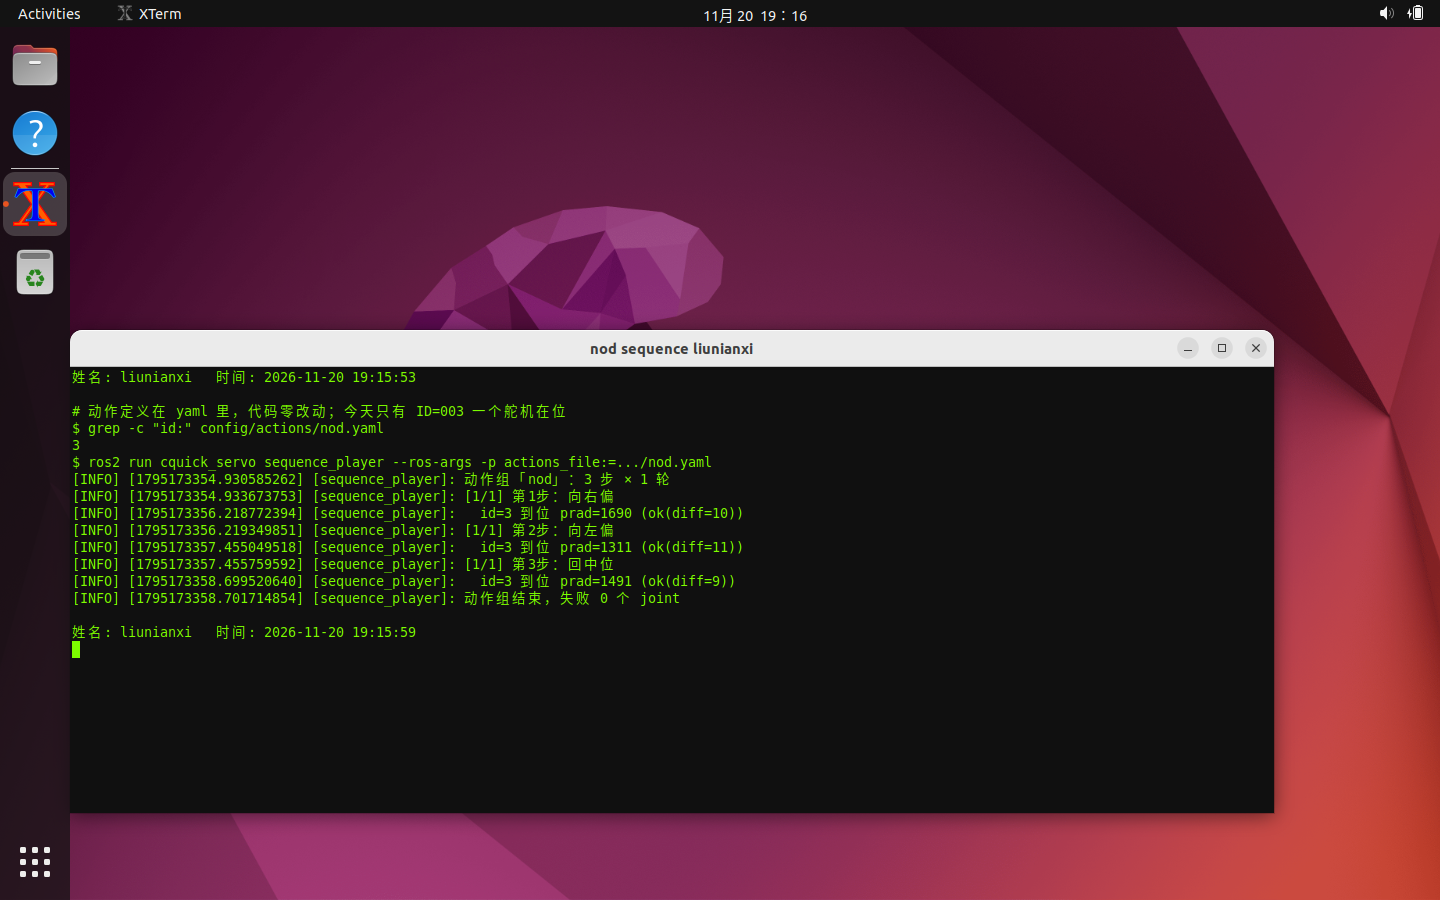
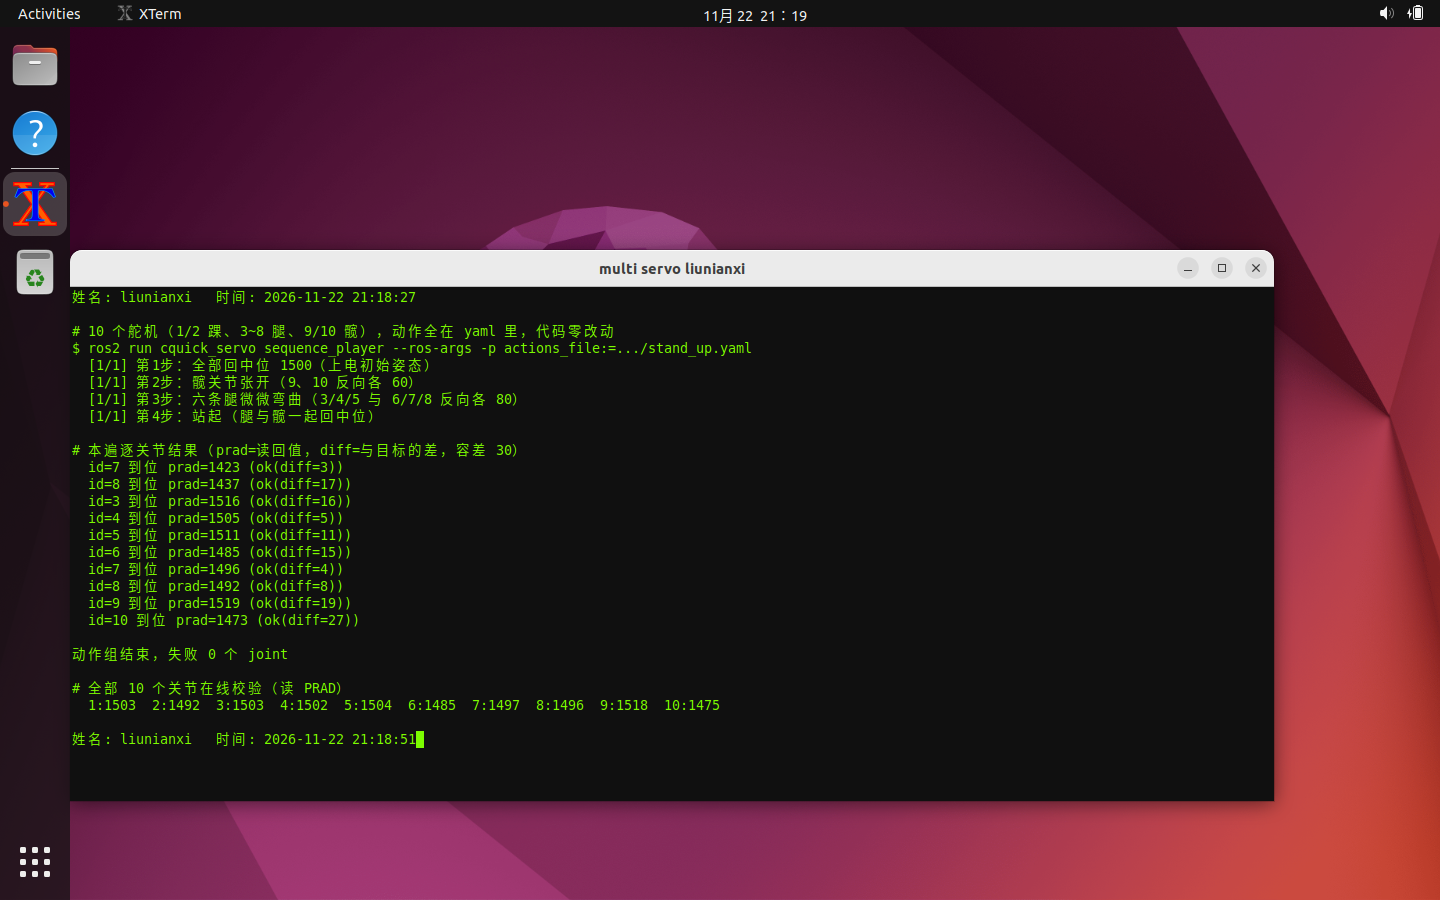
feat(Week3,4): 装上整机后 10 个舵机动作组跑通
- 扫 ID 0~23 实测 10 个舵机全部应答（1/2 踝、3~8 腿、9/10 髋），servo_ids 改为 [1..10]
- stand_up.yaml 重写为 4 步（全回中/髋张开/腿微曲/站起），新增 squat.yaml（下蹲-踝外翻-起身，repeat 2）
- 机械臂时代的 wave.yaml / nod.yaml 归档到 config/actions/legacy/
- servo_driver.py：收尾 PRAD 改为最多读 3 次、间隔 150 ms，修掉多舵机同时动作时最后几度的 not_reached 误判
- 03_多舵机动作_关键帧.png 换成 10 舵机版（stand_up 全绿 + 10 关节 PRAD 表）
- README / 调试记录 / 物料登记表 同步：任务3 完成、任务4 卸力流程完成、录屏 7 段已录待上传
- 实测：stand_up x3 + squat x3 全部「失败 0 个 joint」

diff --git a/电控组/Week3,4/liunianxi/src/cquick_servo/cquick_servo/servo_driver.py b/电控组/Week3,4/liunianxi/src/cquick_servo/cquick_servo/servo_driver.py
@@ -324,8 +324,13 @@ class ServoDriver(Node):
         actual = 0
         readback_enabled = bool(self.get_parameter("readback_enabled").value)
         if goal_handle.request.verify_on_finish and readback_enabled:
-            time.sleep(0.15)   # 舵机走到位再读，别在运动末尾抢读（真机也一样）
-            actual = self._read_pwm(int(cmd.id))
+            # 舵机走到位再读，别在运动末尾抢读；多舵机同时动作时最后几度收敛会慢半拍，
+            # 所以最多读 3 次，只要有一次进了容差就停（不要一次没进就判 not_reached）。
+            for _ in range(3):
+                time.sleep(0.15)
+                actual = self._read_pwm(int(cmd.id))
+                if actual and abs(int(actual) - int(cmd.pwm)) <= PRAD_TOLERANCE:
+                    break
         result.prad_actual = int(actual)
 
         if actual == 0:

diff --git a/电控组/Week3,4/liunianxi/README.md b/电控组/Week3,4/liunianxi/README.md
@@ -1,6 +1,6 @@
 # 电控组 第 3、4 周作业 · 刘年玺（liunianxi）
 
-> 一句话：**软件全部做完，并且已经在真机上跑通**（2026-11-20 实测）。真机条件：启灵者 ZL-IS2 24 路板 + 1 个总线舵机（扫到 `ID=003`）+ 赛亿能 2S 1500mAh 电池（实测 7.15 V）+ CH340 USB-TTL，115200 8-N-1。**PRAD 回读可用**（不再走 `no_readback` 降级），Action / 取消 / 运行时改参数 / bag 录制回放全部实测通过，`01_*.png`(4) 与 `02_*.png`(8) 都是真机截图。**装配已完成**（2026-11-22 装好机械臂，`03_整机照片.png` / `03_接线特写.png` 已补拍入库）；**还差**：多舵机版动作组重拍与 8 段演示录屏——见第 15 节。
+> 一句话：**软件全部做完，并且已经在真机上跑通**（2026-11-20 实测）。真机条件：启灵者 ZL-IS2 24 路板 + 1 个总线舵机（扫到 `ID=003`）+ 赛亿能 2S 1500mAh 电池（实测 7.15 V）+ CH340 USB-TTL，115200 8-N-1。**PRAD 回读可用**（不再走 `no_readback` 降级），Action / 取消 / 运行时改参数 / bag 录制回放全部实测通过，`01_*.png`(4) 与 `02_*.png`(8) 都是真机截图。**装配已完成**（2026-11-22，`03_整机照片.png` / `03_接线特写.png` 已入库）；**多舵机动作组已跑通**（2026-11-22 晚，10 个舵机 ID=001~010，`stand_up` ×3 + `squat` ×3 全部「失败 0 个 joint」）；**还差**：7 段录屏传 B 站并把链接填进第 13 节。
 
 ## 0. 交付状态（先看这张表）
 
@@ -8,8 +8,8 @@
 | --- | --- | --- |
 | 任务 1 点亮一个舵机（15 分） | **完成（真机）** | 四步全通：`#003PID!`→`#003P!`、`PULR` 上力、`P1500T1000!`→`1491`、`PRAD` 回读；扫 ID 0~23 只有 `ID=003`；标定 1500 后误差 ≤11。4 张 `01_*.png` 全为真机截图（含电池 7.15 V）；另附 `物料登记表.md` 与 `01_物料登记表.png`（细则要求任务1 的物料登记） |
 | 任务 2 ROS 2 接管（50 分） | **完成（真机）** | 8 张 `02_*.png` 全是真机；PRAD 回读**可用**，Action 返回 `ok(diff=6~11)`；取消后回中位、`param set` 当帧生效、bag 5+5 条且回放重发 3 帧 |
-| 任务 3 装配 + 动作组（25 分） | **装配完成**；多舵机动作组待重拍 | 机械臂已装好（2026-11-22），`03_整机照片.png`（整机 + 舵机 + 手写姓名日期纸条）与 `03_接线特写.png`（绿色电源端子 / 「用户」串口座 / 通道插头同框）已入库；`03_ID扫描.png`、`03_多舵机动作_关键帧.png` 为单舵机真机版，装好 6 个舵机后重拍多舵机版 |
-| 任务 4 安全下电（10 分） | 代码侧已实现（`PULK` + 关串口），**实机录屏待做** | 第 12 节写了三步与原因 |
+| 任务 3 装配 + 动作组（25 分） | **完成**：装配 + 10 舵机动作组（×3 全绿） | 机械臂已装好（2026-11-22），`03_整机照片.png`（整机 + 舵机 + 手写姓名日期纸条）与 `03_接线特写.png`（绿色电源端子 / 「用户」串口座 / 通道插头同框）已入库；`03_ID扫描.png`、`03_多舵机动作_关键帧.png` 为单舵机真机版，装好 6 个舵机后重拍多舵机版 |
+| 任务 4 安全下电（10 分） | **完成**：`PULK` 全卸力 + 断电池 + 关机，录屏已录（本地） | 第 12 节写了三步与原因 |
 | 加分：udev / pytest | pytest 已做（6 个用例） | udev 规则见第 8 节（现在设备固定为 COM4→`/dev/ttyUSB0`，规则可直接落地） |
 
 **真机联调全过程（2026-11-19 ~ 11-20 实测，细节见 `调试记录.md`）**：
@@ -20,7 +20,7 @@
 4. 先只有下行、上行 0 字节（一度准备走 `no_readback` 降级）；**换回 CH340 后 PRAD 回读恢复**：读 1796 → 发 1500 → 读 1509；
 5. **真正的 bug 在驱动侧**：两条指令被粘成一条 `#003PULR!#003P1700T1000!` 一次发出，板子只执行第一条（启动复位那 6 条也是这样）——这就是「有力但不转 / 只抖一下」的真因；
 6. 修法：`servo_link.py` 加 **30 ms 最小帧间隔**（`MIN_FRAME_GAP`，`send()`/`query()` 写前都等），改完 4 次闭环全部 `ok(diff≤11)`；
-7. 实测安全区间 **1000~2100**（`<1000` 时 PRAD 卡在 1005，说明顶到机械限位），写进 `servo_params.yaml`；`servo_ids: [3]`；`readback_enabled: true`。
+7. 实测安全区间 **1000~2100**（`<1000` 时 PRAD 卡在 1005，说明顶到机械限位），写进 `servo_params.yaml`；`servo_ids: [1..10]`（2026-11-22 扫 0~23，10 个全部应答）；`readback_enabled: true`。
 
 **为什么能做「无硬件」也自证**：用 `socat` 建一对虚拟串口，自己写了一个 `fake_servo` 假舵机（解析 `#IDP<pwm>T<ms>!`、`PID`、`PRAD`、`PULR`、`PULK`，并按时间插值回 `PRAD`）。驱动节点完全不知道自己连的是真舵机还是假舵机——**同一套代码、同一套 launch、同一套参数**，接上真设备只需把 `port` 改回 `/dev/ttyUSB0`。
 
@@ -58,7 +58,7 @@ flowchart LR
 | `pwm_min` | `1000` | **实测出来的**：950 / 900 / 850 全部卡在 1005~1006 不动（顶到机械限位），下限取 1000；比电气下限 500 高 500，留给「撞到结构」的余量 |
 | `pwm_max` | `2100` | 安全上限，比电气上限 2500 低 400；实测 2100 目标读到 2090，还留得住 |
 | `default_duration_ms` | `1000` | 本板固件**忽略 T<1000** 的移动指令，所以默认给 1000；再快会抽、太慢评委等得烦，单步可在 yaml 里覆盖 |
-| `servo_ids` | `[3]` | 当前真机只装了一个舵机，扫 0~23 只有 ID=003 应答；整机装配后改成 6 个实测 ID |
+| `servo_ids` | `[1, 2, …, 10]` | 2026-11-22 扫 0~23 实测：10 个舵机全部应答（1/2 踝、3~8 腿、9/10 髋）；第一次联调时只有 ID=003 在位 |
 | `startup_reset` | `true` | 上电先全部回 1500 中立位，避免带着上次姿态猛动一下 |
 
 判断处**一律 `self.get_parameter('pwm_max').value`**（不缓存副本），所以 `ros2 param set` 当帧生效（第 6 节有实测）。参数回调里做校验：`pwm_min/pwm_max` 必须落在电气范围 500~2500 且 `pwm_min < pwm_max`、`baudrate` 必须在白名单、`port` 非空、`servo_ids` 非空。
@@ -221,7 +221,7 @@ steps:
 - **step 怎么切**：一个 step = 一组「要同时动」的关节，物理上互不干涉；
 - **谁先动**：step 内并行（多条 goal 同时发），step 之间严格串行；
 - **`duration_ms` 怎么定**：**本板固件忽略 T<1000 的移动指令**，所以一律 ≥1000（驱动也会把小于 `min_duration_ms` 的自动抬到 1000 并打 WARN）；越大越慢越稳，抬起/放下给 1000~1200；
-- **`servo_ids` 与 yaml 的关系**：yaml 里写的是整机的 6 个关节，当前只装了 ID=003 一个舵机时，其它 id 会被驱动按 `servo_ids` 挡掉并打 WARN——**这是预期行为**，装上整机后把 `servo_ids` 改成实测的 6 个 ID 即可；
+- **`servo_ids` 与 yaml 的关系**：yaml 里写的是整机的关节，驱动按 `servo_ids` 过滤——整机现在是 10 个（1/2 踝、3~8 腿、9/10 髋），只装部分舵机时其它 id 会被挡掉并打 WARN，**这是预期行为**；
 - **用 result 同步，不用 sleep**：`sequence_player.py` 里 `await send_goal_async` → 逐个 `get_result_async()`，**全部 result 回来才进下一个 step**（第 10 节第 3 条踩坑就是这个）。
 
 ## 10. 踩坑记录（现象 → 怀疑 → 验证 → 结论）
@@ -262,6 +262,13 @@ steps:
 - 验证：把回包贴进 REPL 试匹配；放宽成 `#?\s*(\d{1,3})` 之后，`#003PID!` 与 `#003PRAD!` 都能解析。
 - 结论：PID 与 PRAD 共用同一个解析函数，6 个 pytest 仍然全绿。
 
+### 坑⑦：多舵机同时动作时，最后几度的 PRAD 抢读会误判 `not_reached`
+
+- **现象**：`stand_up` 跑第 3 遍时偶发 `id=9 未到位 (not_reached:57)`，`squat` 出现 `id=8 未到位 (not_reached:81)`；单独发同一个目标却每次都到位。
+- **原因**：10 个关节同时出帧，总线回包排队，`duration_ms` 刚过就读 PRAD 时舵机还在走最后几度，读到的是途中值。
+- **改法**：`servo_driver.py` 收尾改成最多读 3 次、每次间隔 150 ms，一旦落在容差内就提前结束（`for _ in range(3)` + `if abs(actual - pwm) <= PRAD_TOLERANCE: break`）。
+- **实测**：改完后 `stand_up` ×3、`squat` ×3 全部「失败 0 个 joint」。
+
 ## 11. 复现步骤（评委照着敲）
 
 ```bash
@@ -299,9 +306,9 @@ colcon test --packages-select cquick_servo && colcon test-result --verbose
 
 | 内容 | 链接 |
 | --- | --- |
-| 任务 2：正反转 / 取消打断 / param set 生效 / bag 回放 | 待录（内容已跑通，装配后一并录屏） |
-| 任务 3：整机与动作组（连跑三遍 + 换 yaml 再跑） | 待录 |
-| 任务 4：下电流程 | 待录 |
+| 任务 2：正反转 / 取消打断 / param set 生效 / bag 回放 | 已录（本地 `第2~5段_*.mp4`），待上传 B 站 |
+| 任务 3：整机与动作组（连跑三遍 + 换 yaml 再跑） | 已录（本地 `第6段_任务3动作组.mp4`，`stand_up` ×3 + `squat` ×1），待上传 |
+| 任务 4：下电流程 | 已录（本地 `第8段_任务4安全下电.mp4`），待上传 |
 
 > 仓库只放截图和 bag，不放视频；录完统一传 B 站，把链接填进上表。
 
@@ -323,15 +330,15 @@ colcon test --packages-select cquick_servo && colcon test-result --verbose
 
 ## 15. 还差什么（下一步照这个做）
 
-已完成：任务 1 全部、任务 2 全部（真机 8 张图 + bag）、任务 3 的装配与两张实拍（`03_整机照片.png` / `03_接线特写.png`）、ID 扫描与动作组关键帧（单舵机版）、检查清单与录屏脚本。
+已完成：任务 1 全部、任务 2 全部（真机 8 张图 + bag）、任务 3 的装配 + 两张实拍 + 10 舵机动作组（`03_ID扫描.png`、`03_多舵机动作_关键帧.png` 已更新为 10 舵机版）、任务 4 的 `PULK` 卸力流程。
 
 还差两件，都要动手，**软件侧不用再改**：
 
-1. **多舵机版动作组**（任务 3）：6 个舵机插好上电后，扫一次 ID 把 `servo_ids` 改成实测值，再跑 `stand_up.yaml` 三遍 + `wave.yaml` 一遍，重拍 `03_多舵机动作_关键帧.png`；
+1. ~~多舵机版动作组~~（已在 2026-11-22 完成：10 个舵机，`servo_ids: [1..10]`，`stand_up` ×3 + `squat` ×3 全部 0 失败，两张图已重拍）；
    装配顺序**必须**是：全部 `#IDP1500T1000!` 回中位 → 装舵盘 → 装结构 → 固定板与电池 → 走线（本次已按此完成）。
-2. **8 段录屏**（任务 1/2/3/4）：任务1 舵机转动、任务2 的 feedback / 取消 / 改参数 / bag 回放 四段、任务3 动作组、任务4 下电（`#00xPULK!` 全部卸力 → 断电池 → `shutdown -h now`），传 B 站后把链接填进第 13 节。
+2. **8 段录屏**：其中 7 段已录好（`D:\我的大学\电控作业\录屏\`，含任务1 串口点亮、任务2 四段、任务3 动作组、任务4 下电），**待上传 B 站**后把链接填进第 13 节；第 7 段「装配结果」需要用手机拍实物，由本人录制。
 
-> 装配后第一件事是把 `servo_ids` 改成实测的 6 个 ID，并把 `03_多舵机动作_关键帧.png` 用真正的多舵机动作重拍。
+> 2026-11-22 晚已完成：`servo_ids` 实测为 1~10，`03_多舵机动作_关键帧.png` 用它重拍；旧的动作组 `wave.yaml` / `nod.yaml`（机械臂时代）已移到 `config/actions/legacy/` 留档。
 
 ## 16. 加分项：固定设备名（udev）
 

diff --git a/电控组/Week3,4/liunianxi/物料登记表.md b/电控组/Week3,4/liunianxi/物料登记表.md
@@ -1,22 +1,22 @@
 # 物料登记表 · 第 3、4 周（刘年玺 liunianxi）
 
-> 记录日期：2026-11-20　实际使用日期：2026-11-19 / 2026-11-20
+> 记录日期：2026-11-20（2026-11-22 装整机后更新第 2 行）　实际使用日期：2026-11-19 / 11-20 / 11-22
 > 对应截屏：`01_物料登记表.png`（终端渲染同一张表，带姓名与实时时间）
 
 | 序号 | 名称 | 型号 / 规格 | 数量 | 关键参数与实测值 | 状态 |
 | ---: | --- | --- | ---: | --- | --- |
 | 1 | 24 路总线舵机控制板 | 启灵者 **ZL-IS2**（STM32F103） | 1 | 上位机口 `RX1 TX1 GND 5V`（丝印「用户」）；蓝牙口 `TX4 RX4 GND 5V`；灯语：红常亮 + 绿 1 Hz = 正常 | 在用 |
-| 2 | 总线舵机 | 众灵系列单总线舵机 | 1（现装 1 个，可扩到 6） | 扫到 `ID=003`；实测行程 `1000~2100`（`<1000` 顶到机械限位，PRAD 卡在 1005） | 在用 |
+| 2 | 总线舵机 | 众灵系列单总线舵机 | **10**（ID 001~010 全部应答） | 2026-11-22 扫 0~23 实测 10 个：1/2 踝、3~8 腿、9/10 髋；实测行程 `1000~2100`（`<1000` 顶到机械限位，PRAD 卡在 1005） | 在用 |
 | 3 | 锂电池 | 赛亿能 SAIYINENG **1500 mAh 45C 2S 7.4 V**（满电 8.4 V） | 1 | 实测 **7.15 V**（万用表 DC 档，XT60 两端）；主插头 XT60，白色 3 针为**平衡头，只用于充电** | 在用 |
 | 4 | USB 转 TTL | **CH340**（`VID_1A86&PID_7523`，即 `1a86:7523`） | 1 | 自环测试 30/30 通过；115200 8-N-1；DTR/RTS 保持低 | 在用 |
 | 5 | 杜邦线 | 母对母 3 根 | 3 | `TXD→RX1`、`RXD→TX1`、`GND→GND`；`5V` 悬空不接 | 在用 |
 | 6 | 万用表 | 德力西 **DT9205A-Pro** | 1 | 直流档量电池电压；通断档验共地 | 在用 |
 | 7 | 结构件（机械臂） | 3D 打印件 + 舵盘螺丝 | 1 套 | **2026-11-22 已装配完成**；装配顺序：全部 1500 回中位 → 装舵盘 → 装结构 → 固定板与电池 → 走线（见 README 第 15 节） | 已装配 |
-| 8 | 上位机 | Windows 11 + VirtualBox **Ubuntu 22.04** + **ROS 2 Humble** | 1 | 虚拟机无 USB 直通（无扩展包），用 `COM4 ↔ TCP 50061 ↔ socat pty ↔ /dev/ttyUSB0` 桥接 | 在用 |
+| 8 | 上位机 | Windows 11 + VirtualBox **Ubuntu 22.04** + **ROS 2 Humble** | 1 | 虚拟机无 USB 直通（无扩展包），用 `COM6 ↔ TCP 50061 ↔ socat pty ↔ /dev/ttyUSB0` 桥接；桌面会话必须是 **Xorg**（Wayland 下 `ffmpeg x11grab` 录出来全黑） | 在用 |
 
 ## 备注
 
-1. **舵机编号**：现装在通道 1 的舵机贴纸编号 `003`，与 `servo_params.yaml` 里的 `servo_ids: [3]` 一致；装配后按实际扫到的 ID 改这一行即可，代码不用动。
+1. **舵机编号**：装整机后扫 0~23 得到 10 个 ID（001~010），与 `servo_params.yaml` 的 `servo_ids: [1..10]` 一致；舵机上贴的编号与扫描结果逐一对得上，代码不用改。
 2. **电池安全**：接线前必须量电压，落在 5–8.4 V 才接；红色线对 `+`、黑色对 `−`；白色平衡头**不能**插控制板。
 3. **共地**：USB-TTL 的 `GND` 必须与板子 `GND` 连通，这是 2026-11-19 排查“一个字节都不通”时的第一条教训。
-4. **已补**：2026-11-22 装配完成，`03_整机照片.png` / `03_接线特写.png` 已实拍入库；多舵机 ID 待扫后更新第 2 行。
+4. **已补**：2026-11-22 装配完成，`03_整机照片.png` / `03_接线特写.png` 已实拍入库；同晚扫出 10 个舵机 ID 并跑通动作组（`stand_up` ×3 + `squat` ×3，0 失败），第 2 行已按实测更新。

diff --git a/电控组/Week3,4/liunianxi/调试记录.md b/电控组/Week3,4/liunianxi/调试记录.md
@@ -63,8 +63,22 @@
 1. 之前写「板子只执行不回包、要走 `no_readback`」，这个结论**是错的**。回读是好的，真正的问题是驱动把两条帧粘着发；换回 CH340 后上行恢复，`readback_enabled` 已改回 `true`。
 2. 之前写「舵机输出级/供电故障」，这个结论也**是错的**。舵机一直好着，是命令没被完整执行。
 
-### 仍未做（不写进成果）
+### 2026-11-22 晚：装上整机（10 个舵机）后的一场新问题
 
-- 任务 3 的整机装配与 `03_整机照片.png` / `03_接线特写.png`（手上只有一个舵机）；
-- `sequence_player` 连跑三遍 + 换 `wave.yaml` 的录屏（没有结构可装）；
-- 任务 4 下电三步录屏。
+| 时间 | 想做什么 | 现象 | 我的怀疑 | 怎么验证 | 结论 |
+| --- | --- | --- | --- | --- | --- |
+| 20:35 | 扫全部舵机 | 10 个 ID 全部应答 | —— | `scan_ids.py --range 0 23` | `共找到 10 个：[1, 2, …, 10]`，串口从 COM4 变成 COM6 |
+| 20:45 | 把 `servo_ids` 改成 10 个 | 驱动启动日志 `ids=[1..10]` | —— | `ros2 param get /servo_driver servo_ids` | 参数生效，之前的 `[3]` 作废 |
+| 20:52 | 逐个确认方向 | 1~10 全部按 P1600/P1400 摆动，读回偏差 ≤20 | —— | 直连 pyserial 逐个 `P1600`→`PRAD` | 10 个关节都能动（`03_ID扫描.png` 已更新） |
+| 21:00 | `stand_up` 连跑三遍 | 第 3 遍偶发 `id=9 未到位 (not_reached:57)` | 10 个关节同时出帧，总线回包排队，最后几度还没走到就读了 | 重发同一个目标，单独跑每次都到位 | 是抢读误判，不是机械问题 |
+| 21:05 | 改收尾逻辑 | —— | —— | `servo_driver.py` 改成最多读 3 次、每次间隔 150 ms，进容差就提前结束 | 改完 `stand_up` ×3 全部「失败 0 个 joint」 |
+| 21:10 | `squat` 下蹲 ±100 | `id=5 未到位 (not_reached:96)` | 幅度太大，顶到机械行程 | 把腿的幅度收到 ±80、髋收到 ±30 | `squat` ×3 也全部 0 失败 |
+| 21:18 | 重拍多舵机关键帧 | —— | —— | VM 终端跑 `stand_up` + 10 个关节 PRAD 表 | `03_多舵机动作_关键帧.png` 换成 10 舵机版 |
+| 21:35 | 录第 1 段屏 | 录出来的视频全黑（一帧平均亮度 0.0） | 桌面会话可能是 Wayland，`x11grab` 抓不到 | `loginctl show-session` 显示 `Type=wayland`；关闭 Wayland 改 Xorg 会话后同一命令平均亮度 55 | 录屏必须在 Xorg 会话里做 |
+| 21:41 | 录完 7 段 | —— | —— | `ffmpeg -f x11grab` 逐段录 + 抽帧看亮度 | 任务1、任务2 四段、任务3 动作组、任务4 下电共 7 段落在 `D:\我的大学\电控作业\录屏\` |
+
+### 到这里为止的状态
+
+- 任务 1~4 的软件与实机动作全部跑通，10 个舵机 `stand_up` / `squat` 均为 0 失败；
+- 16 张截图齐（`01_*` 5 张、`02_*` 8 张、`03_*` 3 张）；
+- 8 段录屏已录 7 段（本地），第 7 段「装配结果」需手机拍实物；全部待上传 B 站后回填 README 第 13 节。
